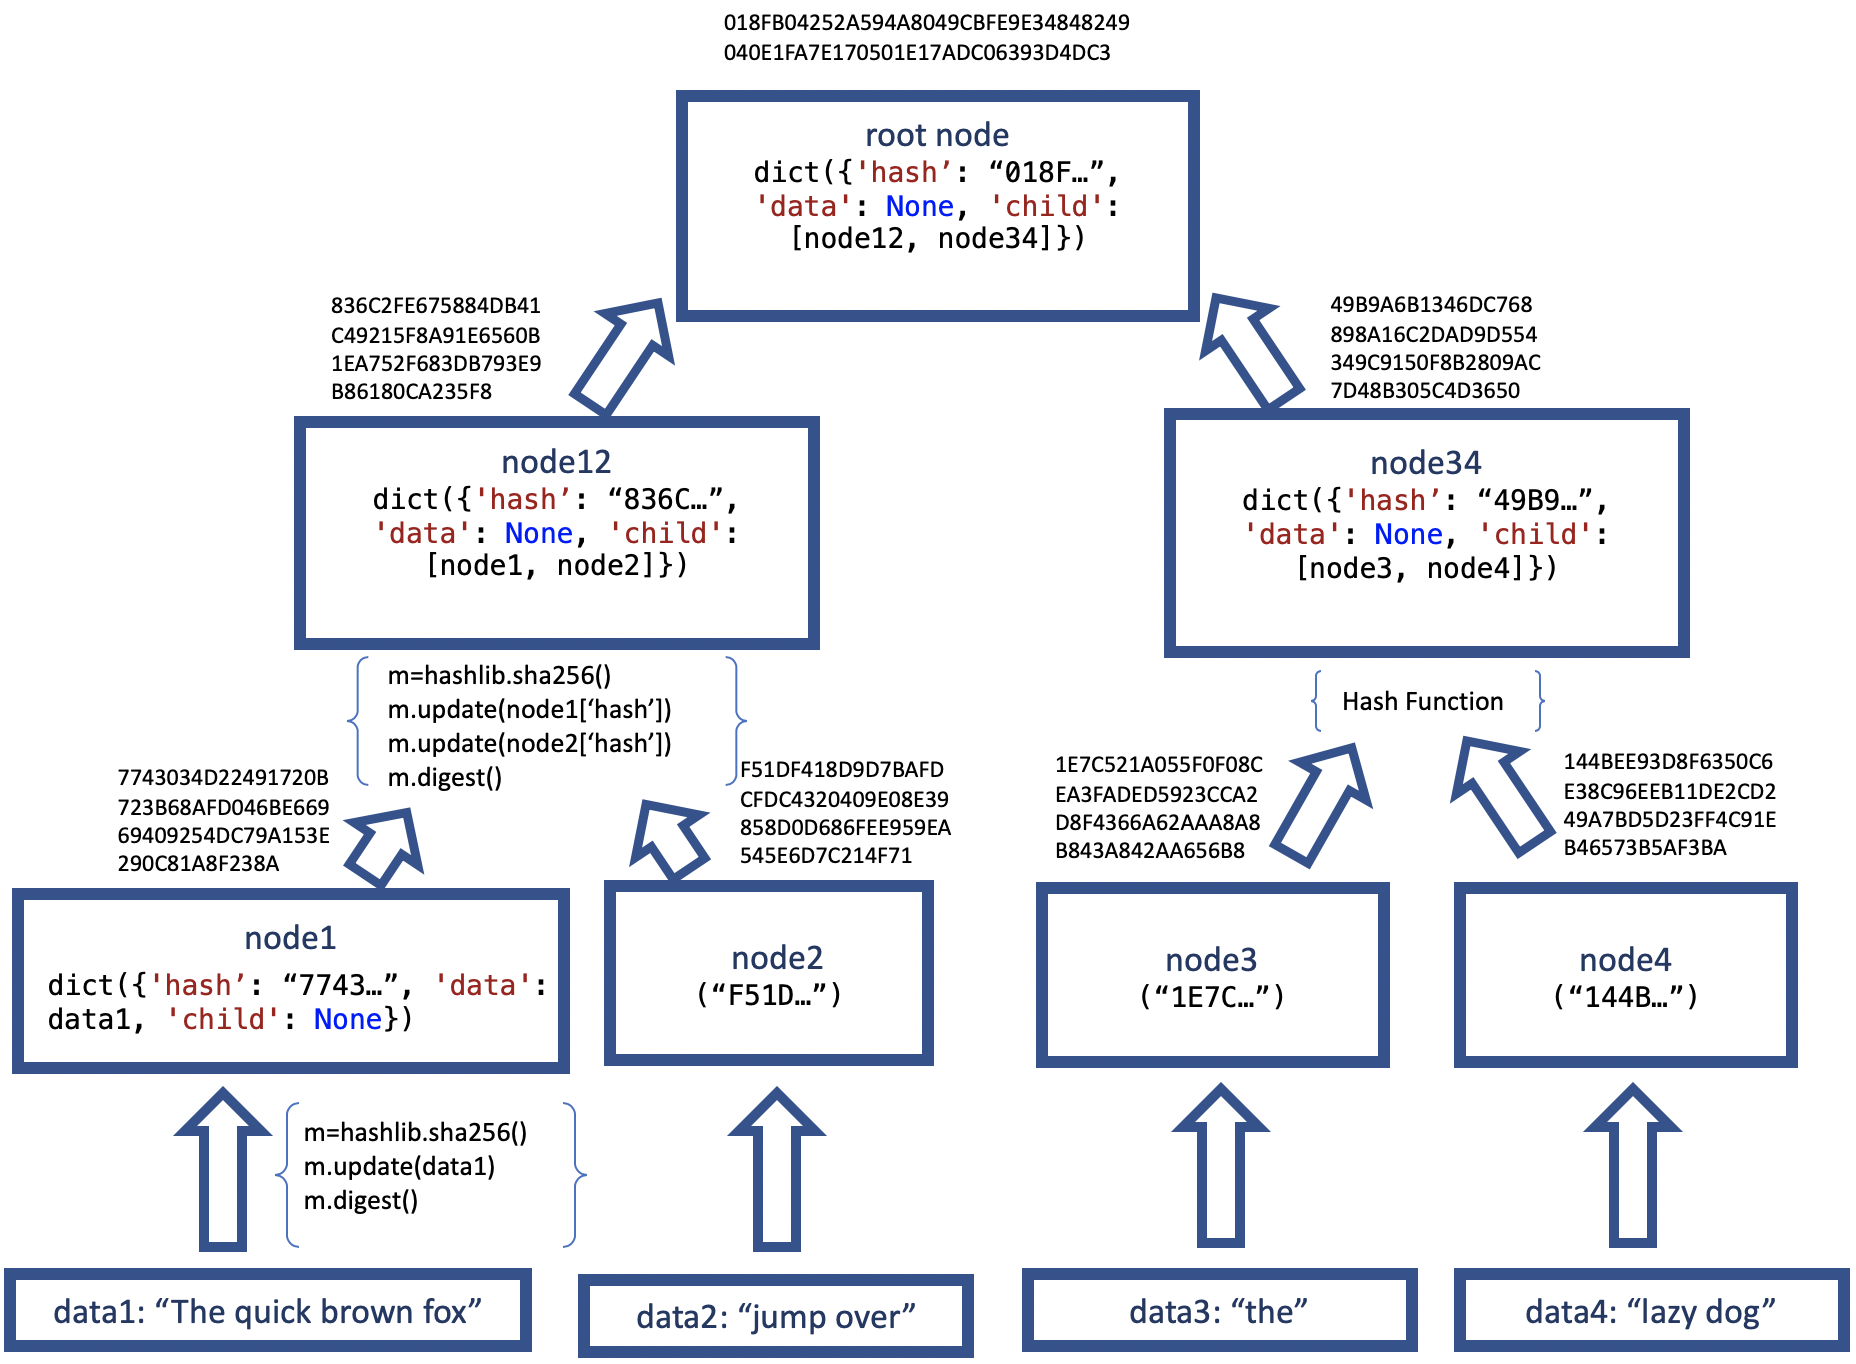
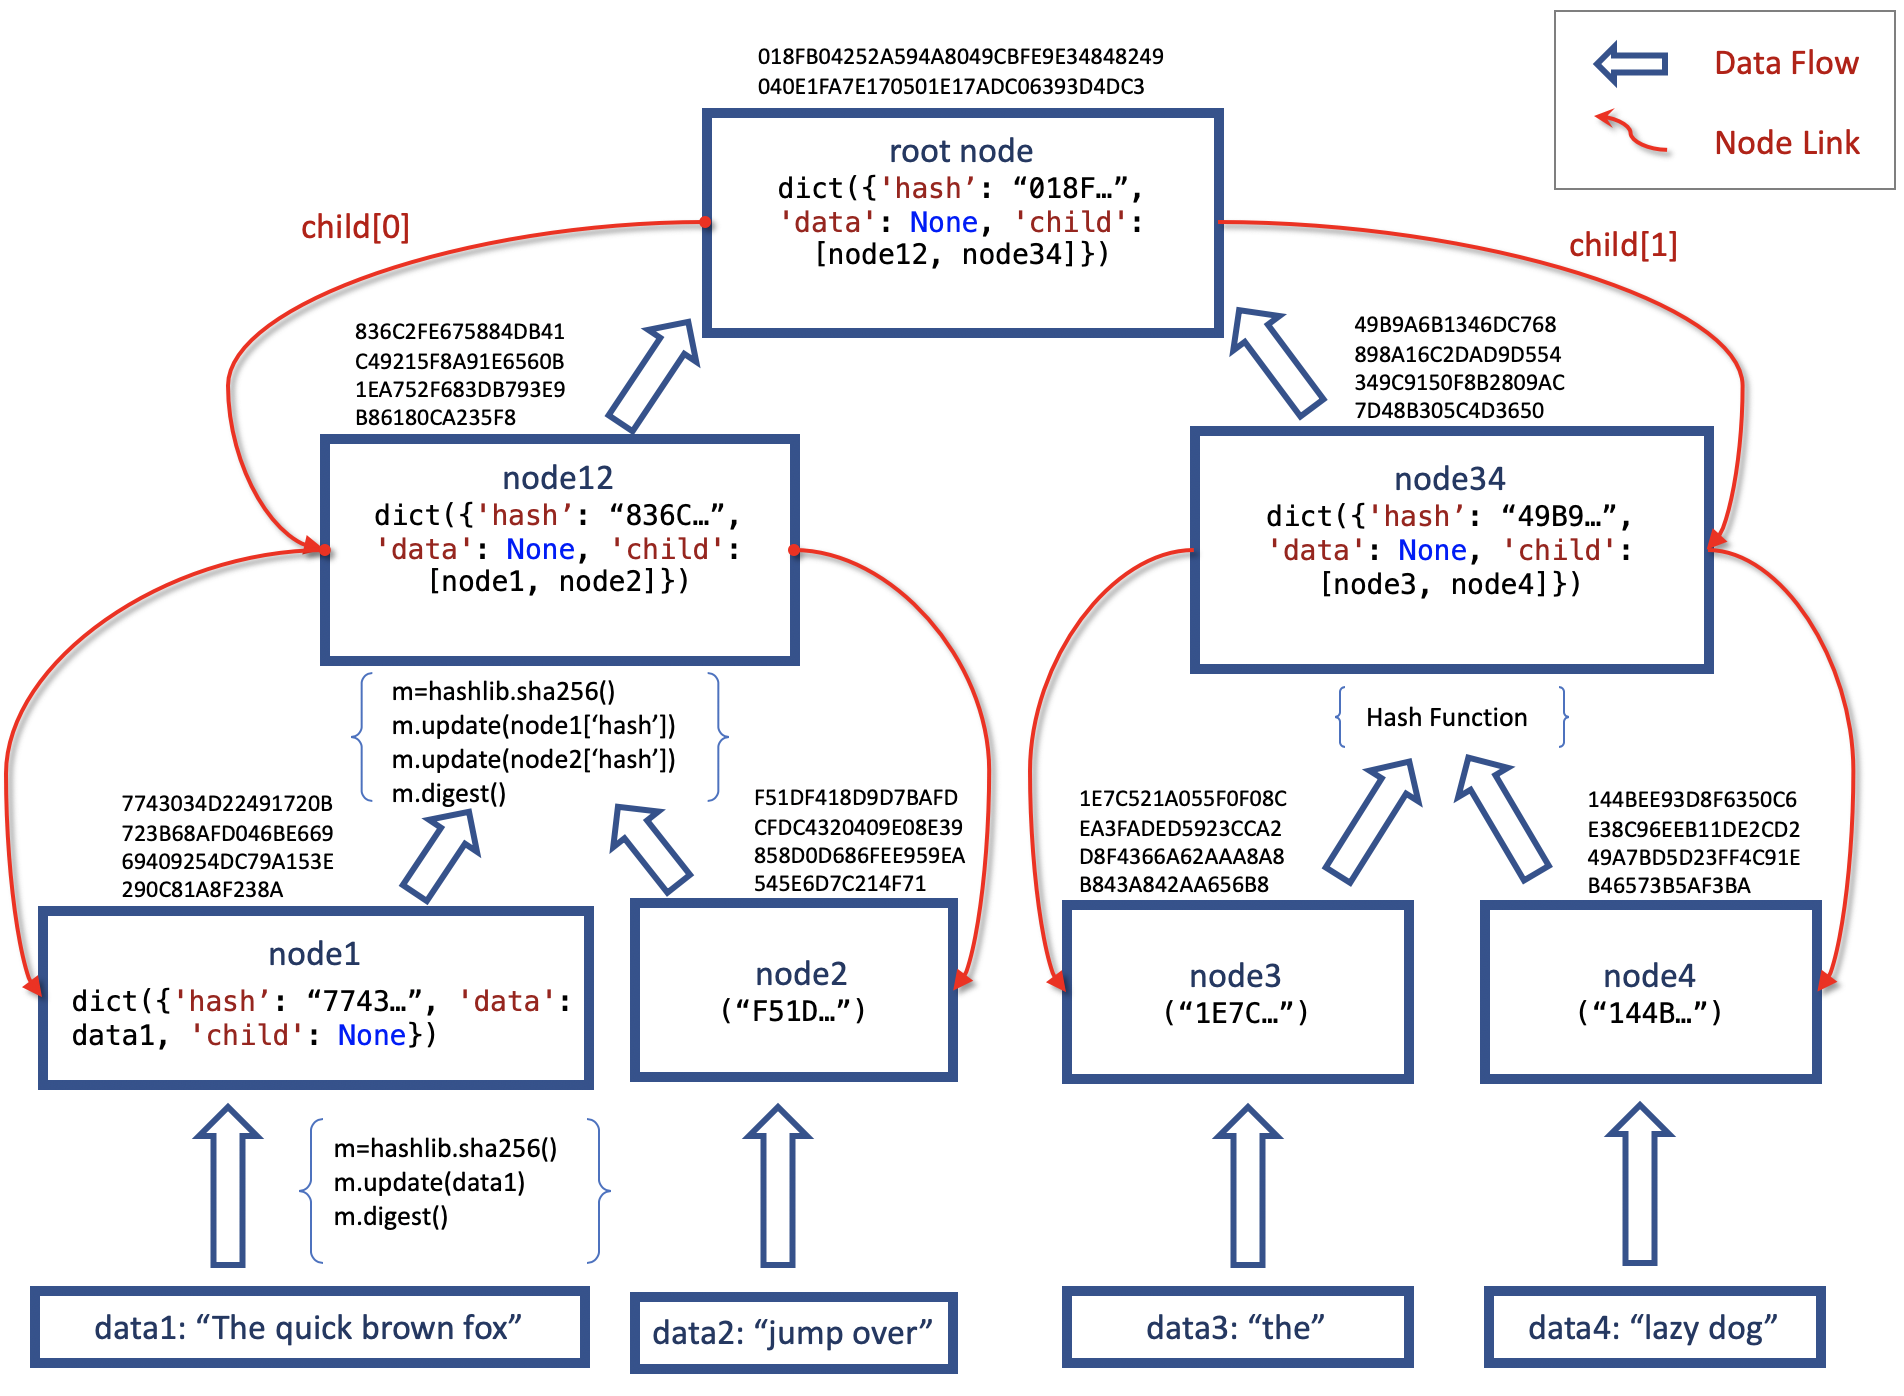
Update README.md and modify ipython notebook

diff --git a/README.md b/README.md
@@ -9,10 +9,10 @@
 
 
 ## Getting Started
-These instructions will get you a copy of the project up and running on your local machine for testing purpose.
+These instructions will get you a copy of the project up and running on your local machine for testing purpose. 
 
 ### Python version
-It runs on any version of Python 2.7 or newer.
+It runs on any version of Python 2.7 or newer. Mac OS X or Linux comes with Python 2.7 out of the box.
 
 ### Getting source files from the github
 Open Terminal and get the source files
@@ -21,7 +21,7 @@ Open Terminal and get the source files
 git clone https://github.com/linked0/merkle-tree.git
 ```
 ### Running the script
-Go to perkle-tree/python directory and run Python script
+Go to perkle-tree/python directory and run Python script.
 ```
 cd merkle-tree/python
 python merkle.py "The quick brown fox" "jump over" "the" "lazy dog"
@@ -40,13 +40,17 @@ F51DF418D9D7BAFDCFDC4320409E08E39858D0D686FEE959EA545E6D7C214F71
[1 lines of base64/hex data omitted]
 ```
 
-## Jupyter notebook in Google Colab. environment(Optional)
+## Jupyter notebook in Google Colabotory(Colab.) environment(Optional)
 Using the Jupyter notebooks is the easiest way to run the python code.
-If you have a google account, you can run my Python implementation in the Google Colab. environment. Please follow steps as follows.
+If you have a google account, you can run my Python implementation in the Google Colab. Please follow steps below.
 
 1. Click on the link:
 [Jay's implementation of Merkle tree in Google Colab.](https://colab.research.google.com/github/linked0/merkle-root/blob/master/python/merkle_tree.ipynb)
-2. Press Ctrl+Enter to run cells. (If you have any pop-up, just close it please.) 
+2. Google sign-in required
+3. Select "CONNECT" at the top-right of the menu bar.
+4. Click each cell and press Ctrl+Enter to run the code.
+5. If you have the pop-up showing the message such as "Warning: This notebook was not authored by Google.", just select "RUN ANYWAY" at the bottom-right of the pop-up.
+6. If you have the pop-up showing the message such as "Reset all runtimes", just select "YES" at the bottom-right of the pop-up.
 
 ## Implemtation details
 ### MerkleTree class
@@ -54,16 +58,16 @@ If you have a google account, you can run my Python implementation in the Google
 
 | Name | Description|
 | :--- | :--- |
-| leaf_data | It is a list which contains the original input data such as "The quick brown fox" and "jump over". |
-| root_node | It is the top node of a Merkle tree that contains child nodes. Each node is implemented with the Map structure. (Dictionary type in Python) |
+| leaf_data | It is a list which contains the original input data such as "The quick brown fox" or "jump over". |
+| root_node | It is the root node of a Merkle tree that contains child nodes. Each node is implemented with the Map data structure. (Dictionary type in Python) |
 
 #### Member functions
 | Name | Description|
 | :--- | :--- |
-| make_tree | It makes a balanced hash tree containing sub trees with hash |
+| make_tree | It makes a balanced hash tree with each node storing the hash value computed by a hash function |
 | get_double_sha256 | It has the input parameter double-sha256 hashed |
 | print_tree | It prints the hash value from top to leaf nodes |
-| convert_binary_to_ascii | It converts a binary string to ascii string.|
+| convert_binary_to_ascii | It converts a binary string to a ascii string.|
 
-### Example of data structure in Python
+### Data structure and implementation in Python
 ![alt text][treeImage]
